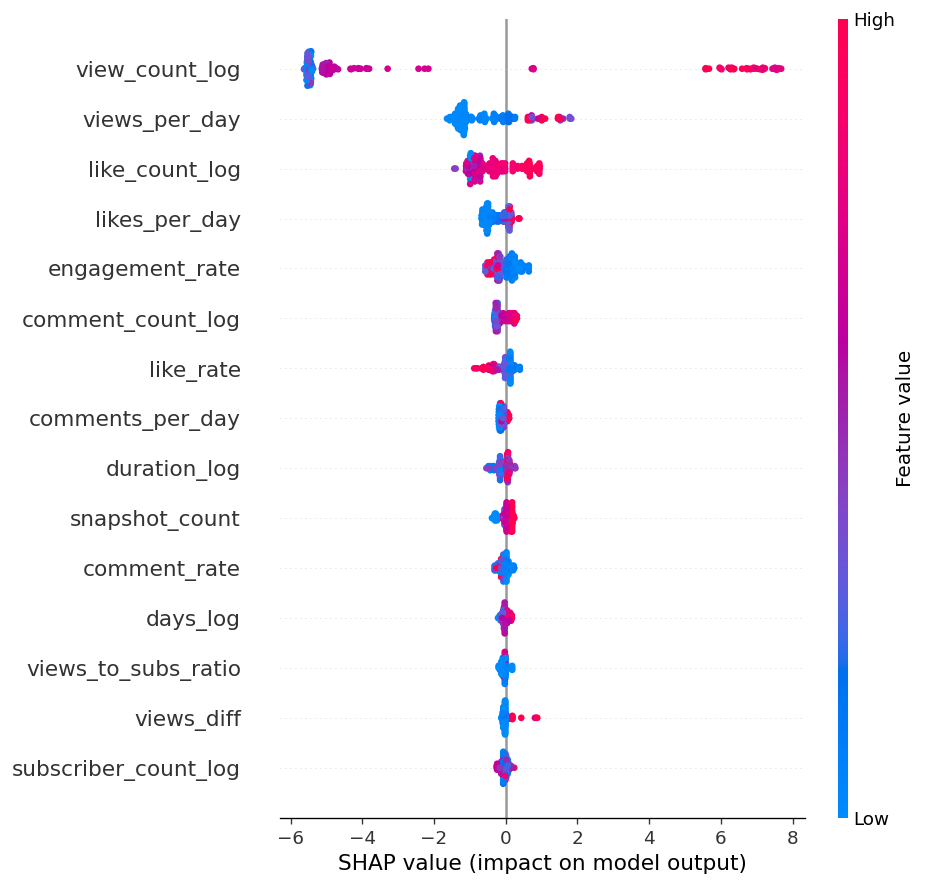
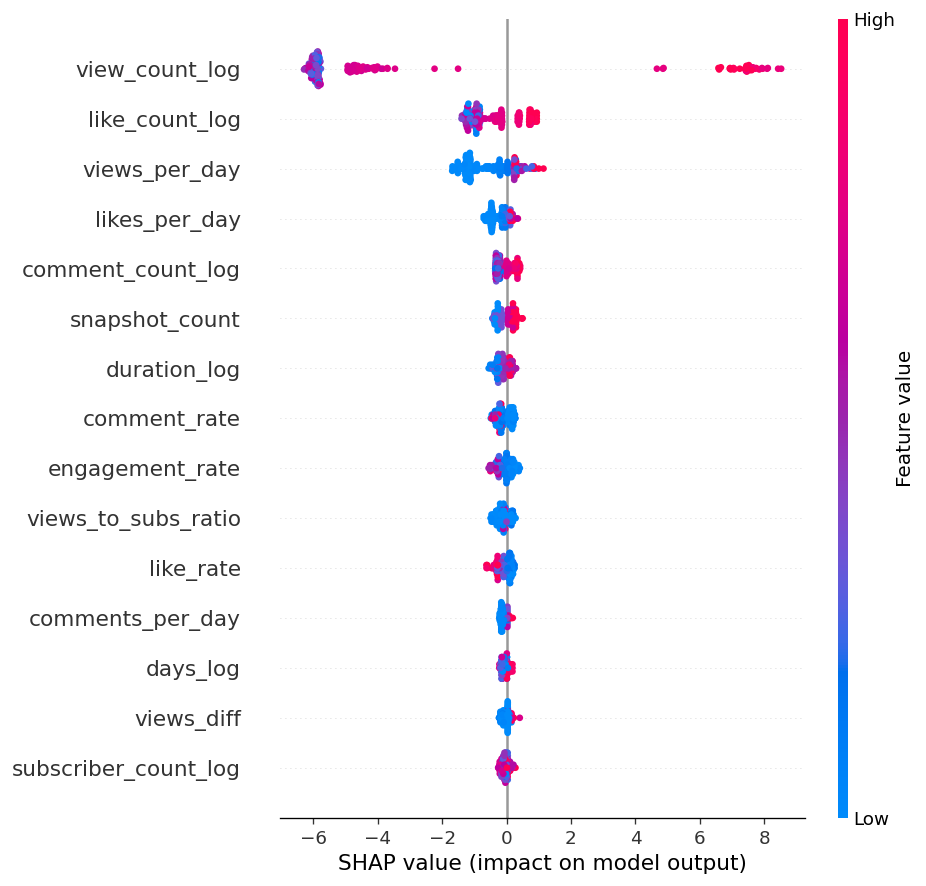
trying to solve data leakage

diff --git a/src/features/build_detections_features.py b/src/features/build_detections_features.py
@@ -52,7 +52,6 @@ FEATURE_COLS = [
     "comment_like_ratio",
 
     # --- Velocity (your original, correct) ---
-    "views_per_day",
     "likes_per_day",
     "comments_per_day",
 
@@ -70,7 +69,7 @@ FEATURE_COLS = [
     "channel_tier",
 
     # --- Video age context (NEW) ---
-    "days_log",
+    
     "age_bucket",
 
     # --- Video format (NEW) ---
@@ -81,8 +80,6 @@ FEATURE_COLS = [
     "snapshot_rank",
     "snapshot_count",
 
-    # NOTE: view_count_log is intentionally excluded from detection features.
-    # It is a direct proxy for the label. See audit log above.
 ]
 
 

diff --git a/src/features/build_predictions_features.py b/src/features/build_predictions_features.py
@@ -39,11 +39,6 @@ FEATURE_COLUMNS = [
     "likes_diff",
     "engagement_diff",
 
-    # --- Scale (safe here because label = FUTURE snapshot views) ---
-    "view_count_log",
-    "like_count_log",
-    "comment_count_log",
-
     # --- Channel authority ---
     "subscriber_count_log",
     "views_to_subs_ratio",
